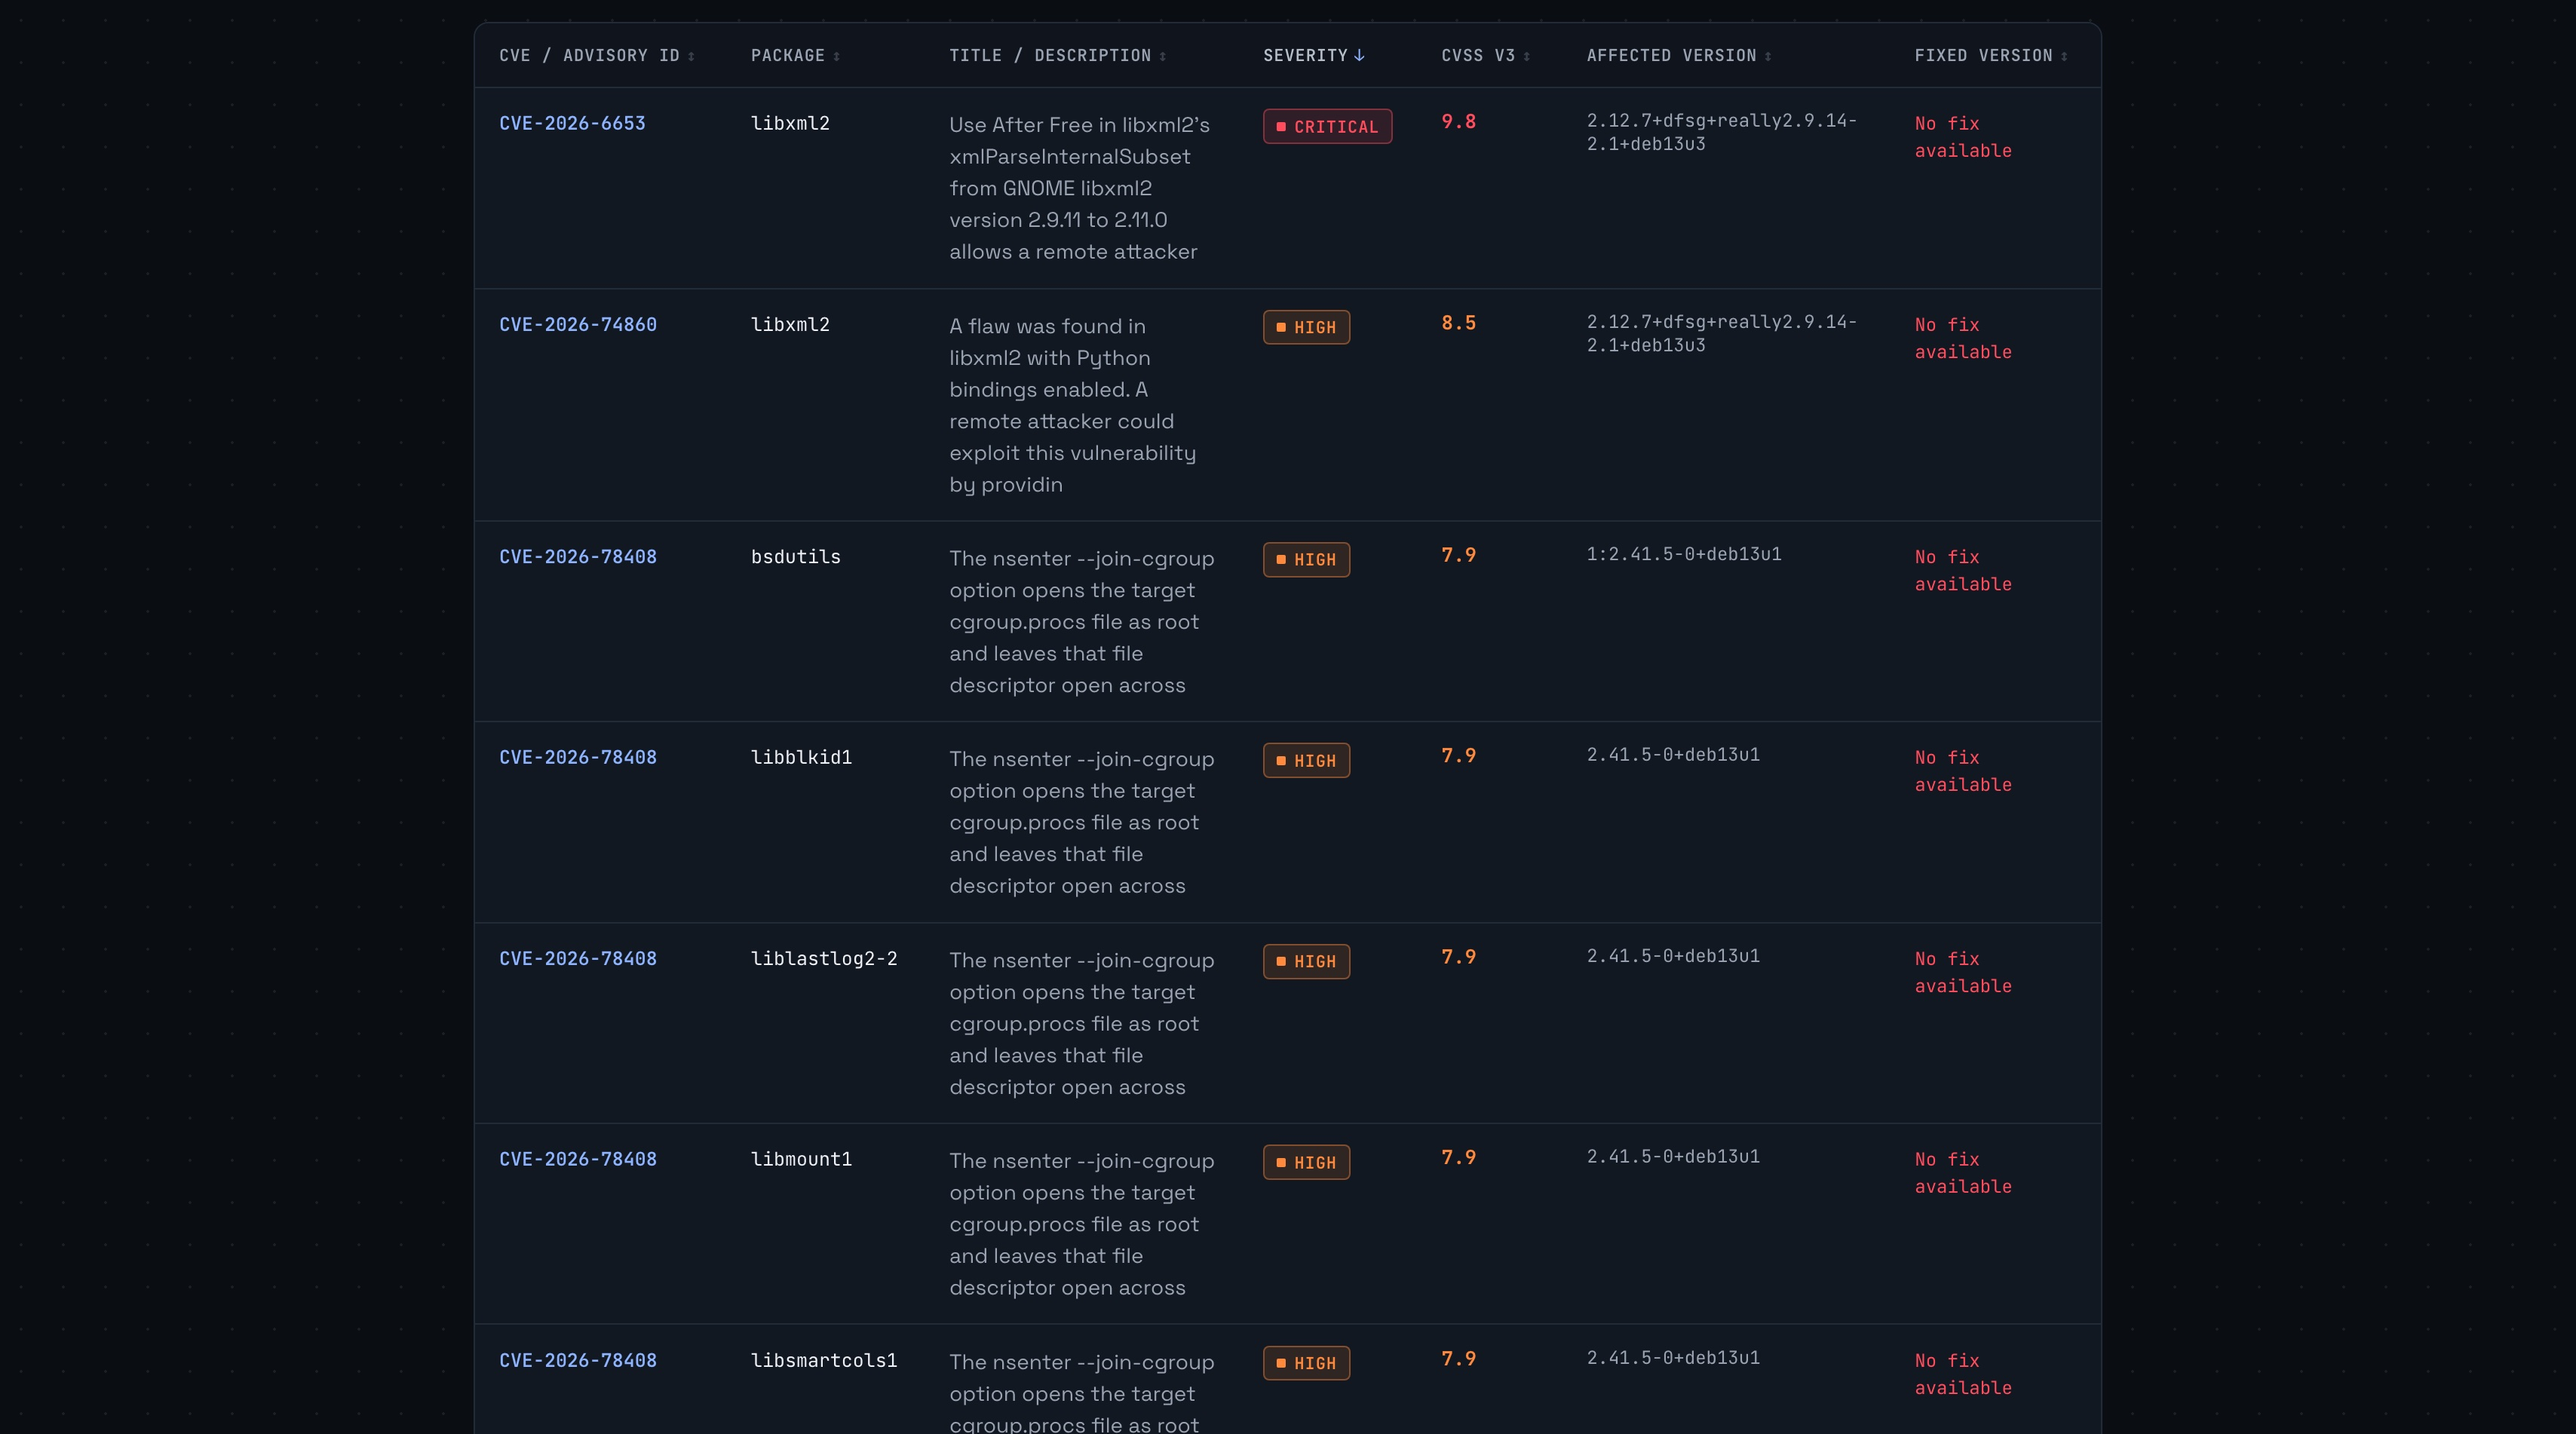
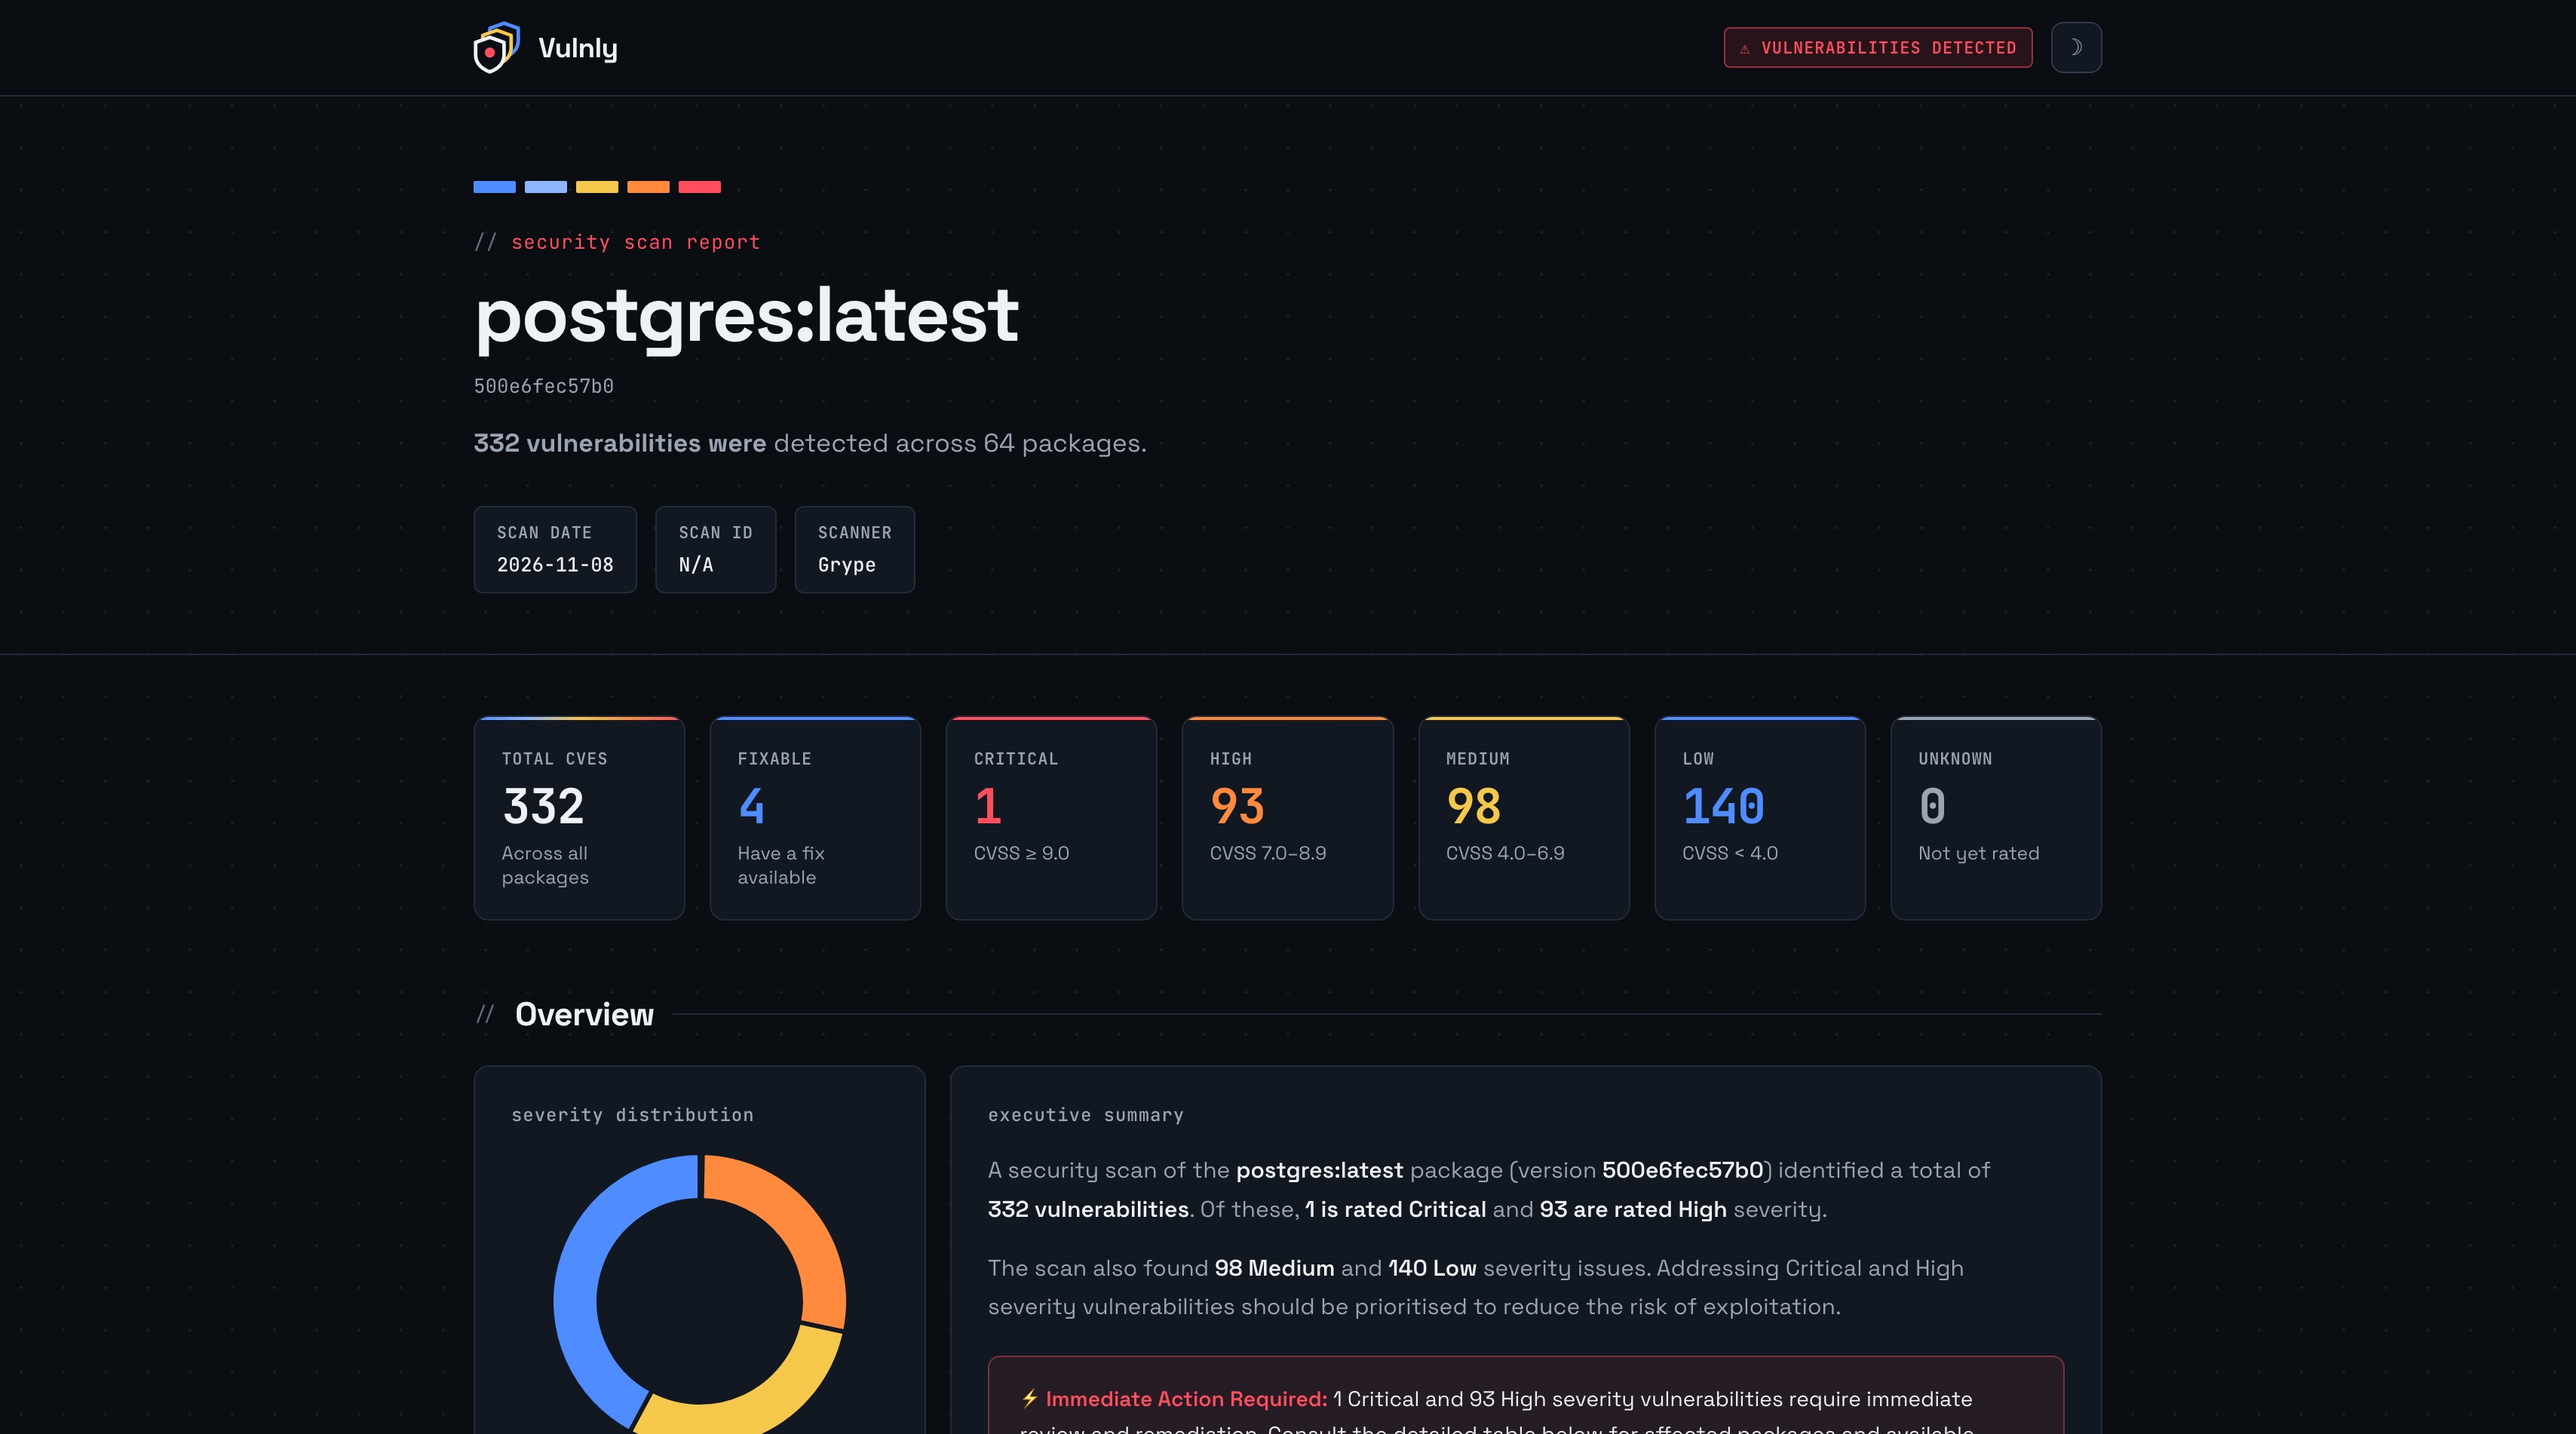
chore: sync docs and assets from source repo

diff --git a/CHANGELOG.md b/CHANGELOG.md
@@ -4,7 +4,7 @@ All notable changes to this project will be documented in this file.
 
 The format is based on [Keep a Changelog](https://keepachangelog.com/), and this project adheres to [Semantic Versioning](https://semver.org/).
 
-## [Unreleased]
+## [1.2.0] - 2026-11-08
 
 ### Changed
 - **A new look for reports**, in line with the Full-Stack-Spectrum brand. Headings and text are set in Space Grotesk, and labels, numbers and identifiers in JetBrains Mono. Both fonts are embedded, like Inter before them, so reports still open with no network access. Severity colours now run along the brand spectrum: critical red, high orange, medium yellow and low blue. The light theme keeps every text colour at WCAG AA contrast or better.
